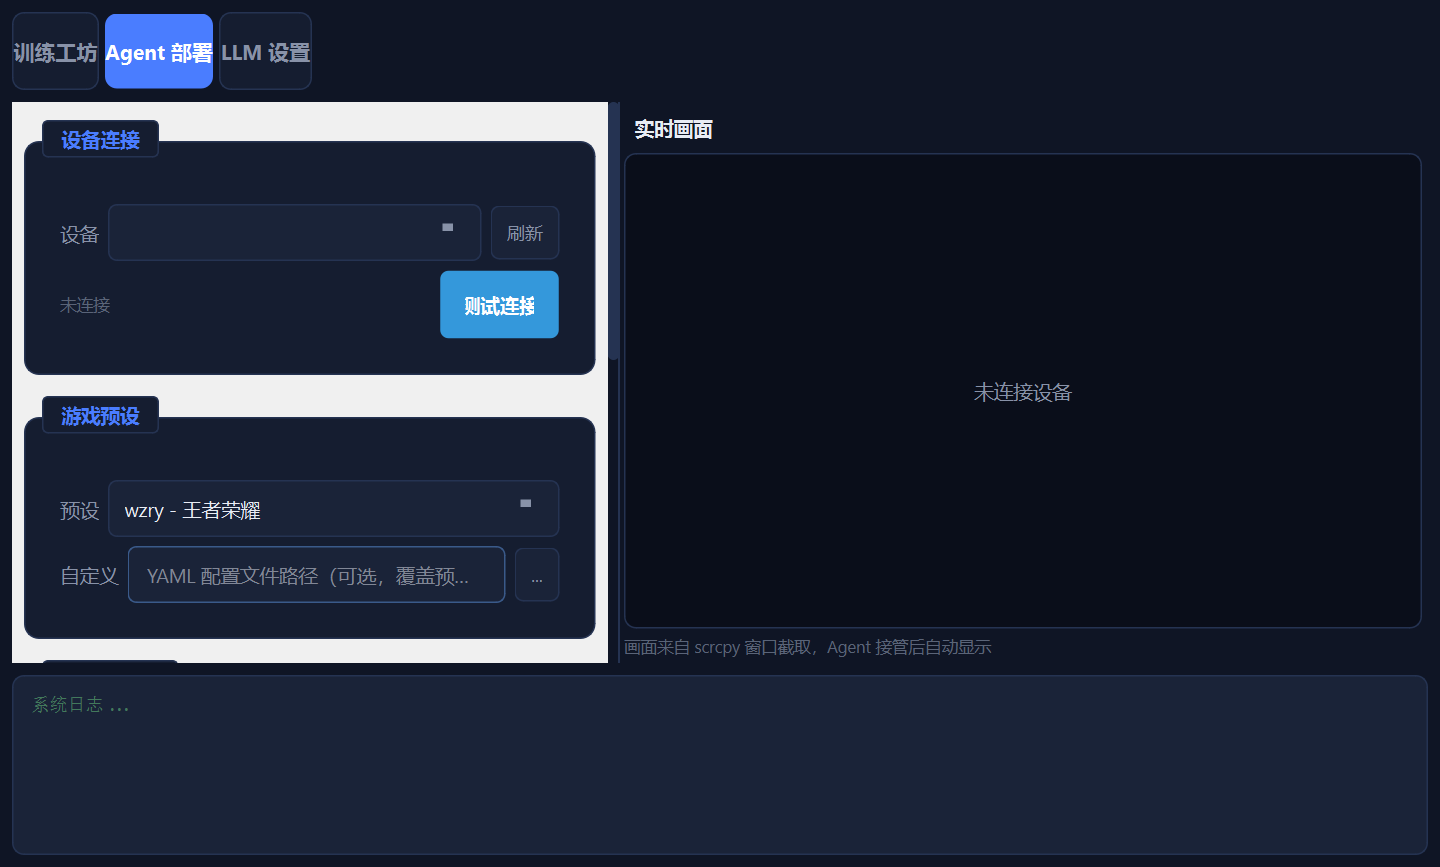
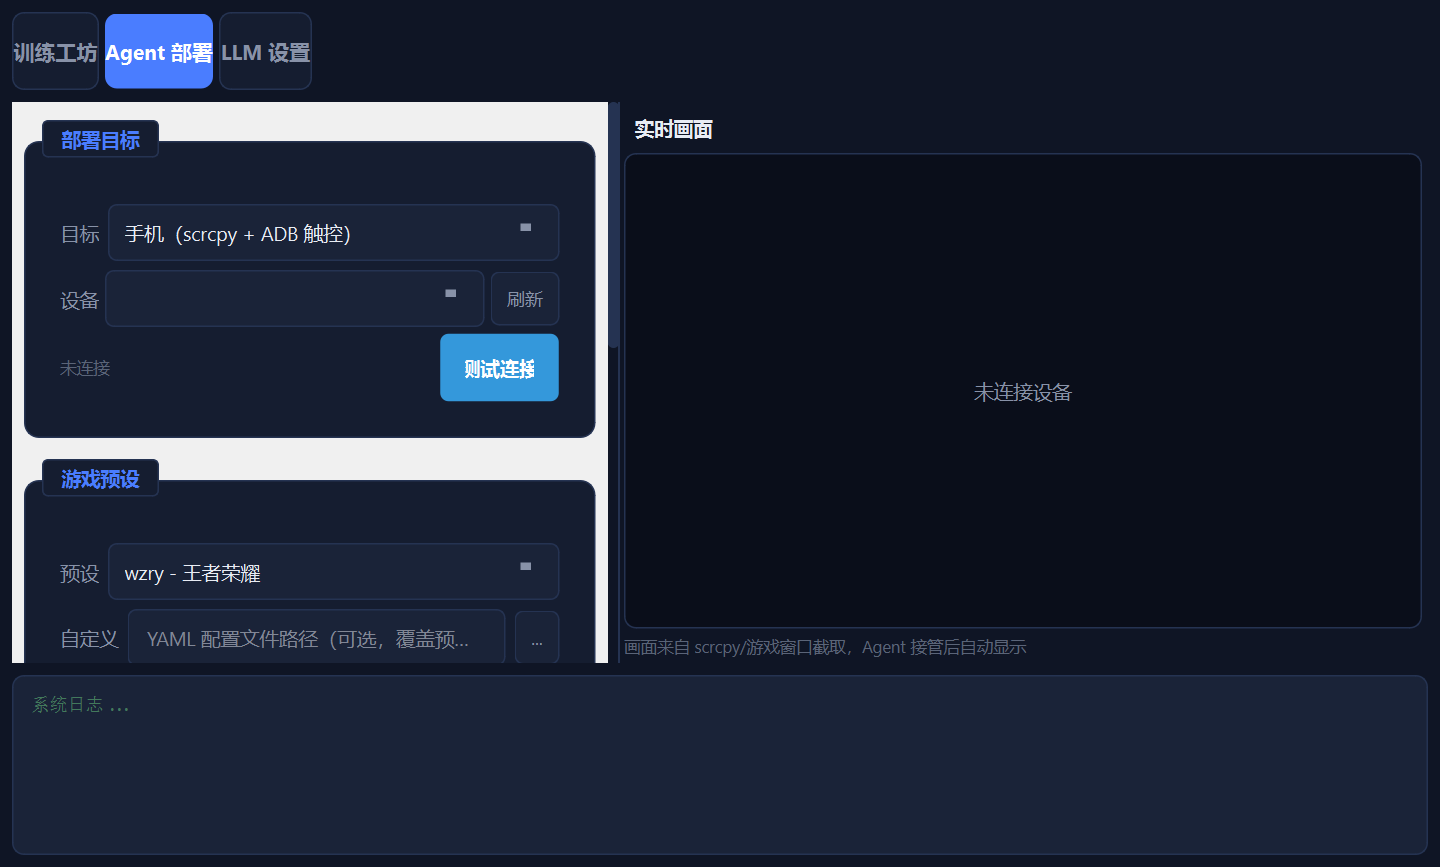
Agent 部署支持 PC 和手机双模式
- 新增部署目标切换：手机（scrcpy + ADB）/ PC（窗口捕获 + 键鼠）
- PC 模式使用 E2EEngine + mss 截屏 + pynput 键鼠
- 手机模式保持原有 DQNEngine + ADB 触控
- 更新截图

diff --git a/vision_agent/gui/selfplay_panel.py b/vision_agent/gui/selfplay_panel.py
@@ -16,7 +16,7 @@ from .styles import COLORS
 
 
 class SelfPlayPanel(QWidget):
-    """Agent 部署面板 — 手机连接 + 模型接管 + 实时画面。"""
+    """Agent 部署面板 — PC/手机 + 模型接管 + 实时画面。"""
 
     agent_start_requested = Signal()
     agent_stop_requested = Signal()
@@ -49,10 +49,24 @@ class SelfPlayPanel(QWidget):
         left_layout.setContentsMargins(8, 8, 8, 8)
         left_layout.setSpacing(10)
 
-        # ━━━ 设备连接 ━━━
-        device_group = QGroupBox("设备连接")
-        dg = QVBoxLayout(device_group)
-        dg.setSpacing(6)
+        # ━━━ 部署目标 ━━━
+        target_group = QGroupBox("部署目标")
+        tg = QVBoxLayout(target_group)
+        tg.setSpacing(6)
+
+        target_row = QHBoxLayout()
+        target_row.addWidget(QLabel("目标"))
+        self.target_combo = QComboBox()
+        self.target_combo.addItems(["手机（scrcpy + ADB 触控）", "PC（窗口捕获 + 键鼠）"])
+        self.target_combo.currentIndexChanged.connect(self._on_target_changed)
+        target_row.addWidget(self.target_combo, 1)
+        tg.addLayout(target_row)
+
+        # -- 手机控件 --
+        self.mobile_target_widget = QWidget()
+        mob_layout = QVBoxLayout(self.mobile_target_widget)
+        mob_layout.setContentsMargins(0, 0, 0, 0)
+        mob_layout.setSpacing(4)
 
         dev_row = QHBoxLayout()
         dev_row.addWidget(QLabel("设备"))
@@ -64,7 +78,7 @@ class SelfPlayPanel(QWidget):
         self.refresh_device_btn.setObjectName("browseBtn")
         self.refresh_device_btn.setMaximumWidth(50)
         dev_row.addWidget(self.refresh_device_btn)
-        dg.addLayout(dev_row)
+        mob_layout.addLayout(dev_row)
 
         status_row = QHBoxLayout()
         self.device_status = QLabel("未连接")
@@ -75,9 +89,38 @@ class SelfPlayPanel(QWidget):
         self.check_device_btn.setObjectName("infoBtn")
         self.check_device_btn.setMaximumWidth(80)
         status_row.addWidget(self.check_device_btn)
-        dg.addLayout(status_row)
+        mob_layout.addLayout(status_row)
 
-        left_layout.addWidget(device_group)
+        tg.addWidget(self.mobile_target_widget)
+
+        # -- PC 控件 --
+        self.pc_target_widget = QWidget()
+        pc_layout = QVBoxLayout(self.pc_target_widget)
+        pc_layout.setContentsMargins(0, 0, 0, 0)
+        pc_layout.setSpacing(4)
+
+        win_row = QHBoxLayout()
+        win_row.addWidget(QLabel("窗口"))
+        self.window_combo = QComboBox()
+        self.window_combo.setEditable(True)
+        self.window_combo.addItem("（全屏）")
+        self.window_combo.setToolTip("选择游戏窗口，Agent 将捕获此窗口并用键鼠控制")
+        win_row.addWidget(self.window_combo, 1)
+        self.refresh_windows_btn = QPushButton("刷新")
+        self.refresh_windows_btn.setObjectName("browseBtn")
+        self.refresh_windows_btn.setMaximumWidth(50)
+        self.refresh_windows_btn.clicked.connect(self._refresh_window_list)
+        win_row.addWidget(self.refresh_windows_btn)
+        pc_layout.addLayout(win_row)
+
+        pc_hint = QLabel("Agent 将通过 pynput 模拟键鼠操作控制游戏")
+        pc_hint.setStyleSheet(f"color: {COLORS['text_dim']}; font-size: 11px;")
+        pc_layout.addWidget(pc_hint)
+
+        tg.addWidget(self.pc_target_widget)
+        self.pc_target_widget.setVisible(False)
+
+        left_layout.addWidget(target_group)
 
         # ━━━ 游戏预设 ━━━
         preset_group = QGroupBox("游戏预设")
@@ -181,10 +224,10 @@ class SelfPlayPanel(QWidget):
         self.screen_display.setText("未连接设备")
         right_layout.addWidget(self.screen_display, 1)
 
-        screen_info = QLabel("画面来自 scrcpy 窗口截取，Agent 接管后自动显示")
-        screen_info.setStyleSheet(f"color: {COLORS['text_dim']}; font-size: 11px;")
-        screen_info.setWordWrap(True)
-        right_layout.addWidget(screen_info)
+        self.screen_info = QLabel("画面来自 scrcpy/游戏窗口截取，Agent 接管后自动显示")
+        self.screen_info.setStyleSheet(f"color: {COLORS['text_dim']}; font-size: 11px;")
+        self.screen_info.setWordWrap(True)
+        right_layout.addWidget(self.screen_info)
 
         splitter.addWidget(left_scroll)
         splitter.addWidget(right)
@@ -203,6 +246,38 @@ class SelfPlayPanel(QWidget):
         self.agent_stop_btn.clicked.connect(self.agent_stop_requested)
         self.log_signal.connect(self._append_log)
         self.frame_signal.connect(self._update_frame)
+
+    # ── 部署目标切换 ──
+
+    def _on_target_changed(self, index: int):
+        is_mobile = (index == 0)
+        self.mobile_target_widget.setVisible(is_mobile)
+        self.pc_target_widget.setVisible(not is_mobile)
+        if is_mobile:
+            self._refresh_devices()
+        else:
+            self._refresh_window_list()
+
+    def is_mobile_target(self) -> bool:
+        return self.target_combo.currentIndex() == 0
+
+    def get_window_title(self) -> str:
+        text = self.window_combo.currentText()
+        if text == "（全屏）" or not text.strip():
+            return ""
+        return text.strip()
+
+    def _refresh_window_list(self):
+        from ..data.game_recorder import GameRecorder
+        titles = GameRecorder.list_windows()
+        current = self.window_combo.currentText()
+        self.window_combo.clear()
+        self.window_combo.addItem("（全屏）")
+        for t in titles:
+            self.window_combo.addItem(t)
+        idx = self.window_combo.findText(current)
+        if idx >= 0:
+            self.window_combo.setCurrentIndex(idx)
 
     # ── 设备管理 ──
 
@@ -349,7 +424,9 @@ class SelfPlayPanel(QWidget):
     def set_agent_running_state(self, running: bool):
         self.agent_start_btn.setEnabled(not running)
         self.agent_stop_btn.setEnabled(running)
+        self.target_combo.setEnabled(not running)
         self.device_combo.setEnabled(not running)
+        self.window_combo.setEnabled(not running)
         self.preset_combo.setEnabled(not running)
         if running:
             self.agent_status.setText("Agent 运行中...")

diff --git a/vision_agent/gui/main_window.py b/vision_agent/gui/main_window.py
@@ -565,8 +565,13 @@ class MainWindow(QMainWindow):
             QMessageBox.warning(self, "提示", "请选择模型目录（DQN 或 BC 训练产出）")
             return
 
-        device_serial = sp.get_device_serial()
         preset_name = sp.get_preset_name()
+        is_mobile = sp.is_mobile_target()
+
+        if is_mobile:
+            device_serial = sp.get_device_serial()
+        else:
+            device_serial = ""
 
         sp.set_agent_running_state(True)
         self._agent_running = True
@@ -574,45 +579,13 @@ class MainWindow(QMainWindow):
         def _run():
             try:
                 from ..rl.preset import load_selfplay_preset
-                from ..decision.dqn_engine import DQNEngine
-
                 preset = load_selfplay_preset(preset_name)
 
-                self._dqn_engine = DQNEngine(
-                    model_dir=model_dir,
-                    touch_zones=preset.get("action_zones", []),
-                    device_serial=device_serial,
-                    execute_actions=True,
-                )
-                self._dqn_engine.on_start()
-
-                self._selfplay_log.emit(f"[Agent] 模型加载完成: {model_dir}")
-                self._selfplay_log.emit(f"[Agent] 开始接管游戏 (预设: {preset_name})")
-
-                from ..core.vision_encoder import VisionEncoder
-                encoder = VisionEncoder()
-
-                # 启动帧捕获显示
-                self._start_agent_frame_capture()
-
-                import time
-                while self._agent_running:
-                    frame = self._capture_scrcpy_frame()
-                    if frame is None:
-                        time.sleep(0.5)
-                        continue
-
-                    self._selfplay_frame.emit(frame)
-
-                    actions = self._dqn_engine.decide(embedding=frame)
-                    if actions:
-                        action = actions[0]
-                        if action.name != "idle":
-                            self._selfplay_log.emit(
-                                f"[Agent] {action.name} (conf={action.confidence:.2f}) {action.reason}"
-                            )
-
-                    time.sleep(0.2)  # ~5 FPS
+                if is_mobile:
+                    self._run_agent_mobile(model_dir, preset, device_serial)
+                else:
+                    window_title = sp.get_window_title()
+                    self._run_agent_pc(model_dir, preset, window_title)
 
             except Exception as e:
                 self._selfplay_log.emit(f"[Agent 错误] {e}")
@@ -625,7 +598,92 @@ class MainWindow(QMainWindow):
                 QTimer.singleShot(0, lambda: sp.set_agent_running_state(False))
 
         threading.Thread(target=_run, daemon=True).start()
-        self._log("[Agent] 启动中...")
+        target_info = "手机" if is_mobile else "PC"
+        self._log(f"[Agent] 启动中 ({target_info})...")
+
+    def _run_agent_mobile(self, model_dir: str, preset: dict, device_serial: str):
+        """手机端 Agent：scrcpy 截屏 + ADB 触控。"""
+        from ..decision.dqn_engine import DQNEngine
+
+        self._dqn_engine = DQNEngine(
+            model_dir=model_dir,
+            touch_zones=preset.get("action_zones", []),
+            device_serial=device_serial,
+            execute_actions=True,
+        )
+        self._dqn_engine.on_start()
+
+        self._selfplay_log.emit(f"[Agent] 模型加载完成: {model_dir}")
+        self._selfplay_log.emit("[Agent] 手机模式：scrcpy 截屏 + ADB 触控")
+
+        import time
+        while self._agent_running:
+            frame = self._capture_scrcpy_frame()
+            if frame is None:
+                time.sleep(0.5)
+                continue
+
+            self._selfplay_frame.emit(frame)
+            actions = self._dqn_engine.decide(embedding=frame)
+            if actions:
+                action = actions[0]
+                if action.name != "idle":
+                    self._selfplay_log.emit(
+                        f"[Agent] {action.name} (conf={action.confidence:.2f}) {action.reason}"
+                    )
+            time.sleep(0.2)
+
+    def _run_agent_pc(self, model_dir: str, preset: dict, window_title: str):
+        """PC 端 Agent：窗口捕获 + 键鼠模拟。"""
+        from ..decision.e2e_engine import E2EEngine
+
+        engine = E2EEngine(model_dir=model_dir)
+        engine.on_start()
+        self._dqn_engine = engine  # 复用变量，方便 cleanup
+
+        self._selfplay_log.emit(f"[Agent] 模型加载完成: {model_dir}")
+        win_info = f"窗口: {window_title}" if window_title else "全屏"
+        self._selfplay_log.emit(f"[Agent] PC 模式：{win_info} + 键鼠控制")
+
+        from ..data.game_recorder import GameRecorder
+        import mss
+        import cv2
+        import numpy as np
+        import time
+
+        while self._agent_running:
+            # 截取游戏窗口
+            frame = None
+            try:
+                if window_title:
+                    region = GameRecorder._find_window(window_title)
+                else:
+                    region = None  # 全屏
+
+                with mss.mss() as sct:
+                    if region:
+                        img = sct.grab(region)
+                    else:
+                        img = sct.grab(sct.monitors[1])
+                    frame = np.array(img)
+                    frame = cv2.cvtColor(frame, cv2.COLOR_BGRA2BGR)
+            except Exception:
+                time.sleep(0.5)
+                continue
+
+            if frame is None:
+                time.sleep(0.5)
+                continue
+
+            self._selfplay_frame.emit(frame)
+            actions = engine.decide(embedding=frame)
+            if actions:
+                action = actions[0]
+                if action.name != "idle":
+                    self._selfplay_log.emit(
+                        f"[Agent] {action.name} (conf={action.confidence:.2f}) {action.reason}"
+                    )
+            time.sleep(0.2)
 
     @Slot()
     def _stop_agent(self):
